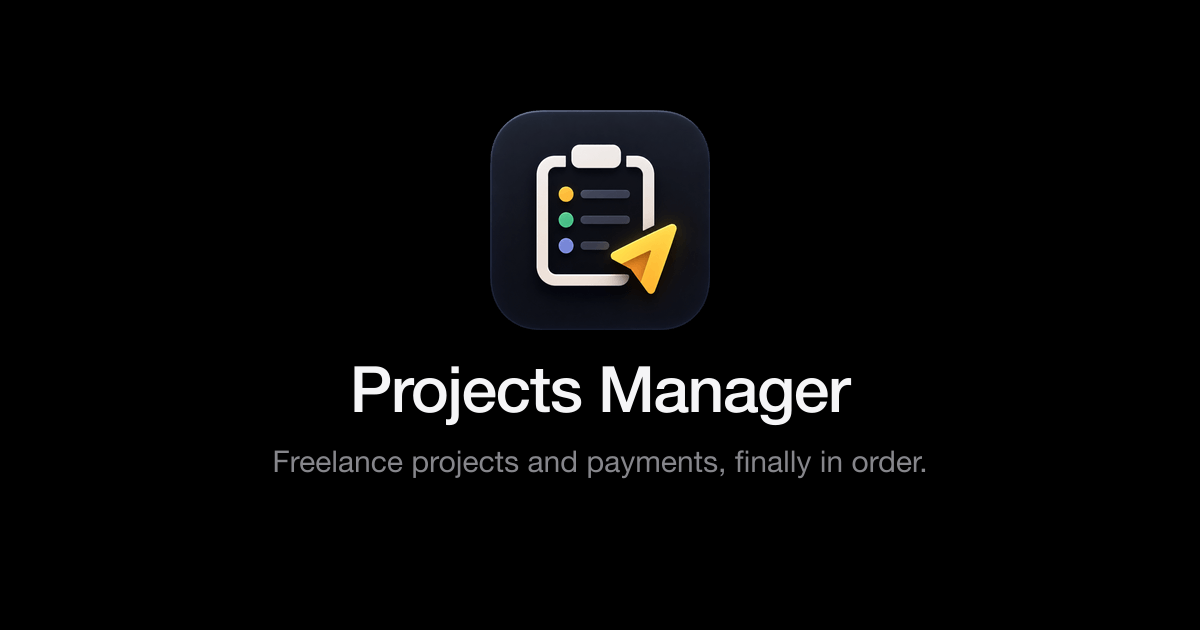
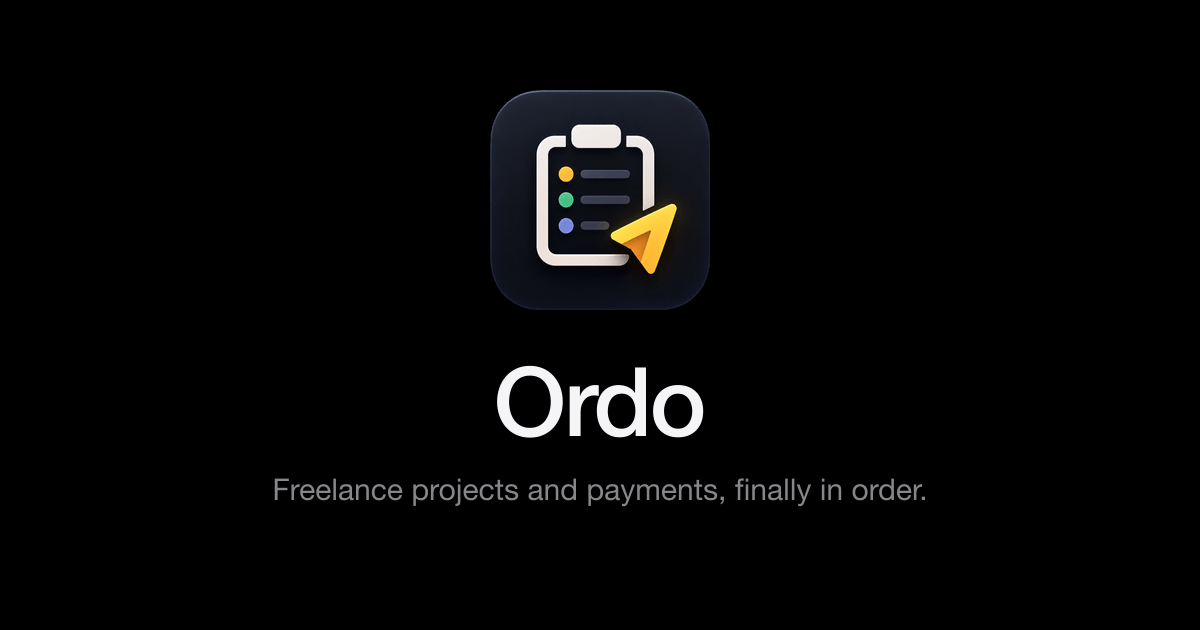
feat: rebrand to Ordo
- Product name in the top bar, landing page, sign-in, page titles,
  web app manifest, iOS home-screen title and Open Graph metadata
- Regenerate the social preview card with an Ordo wordmark
- Rename the npm package; drop stale Framer Motion mention from README

Changed region(s): [[0.4008, 0.1206, 0.6167, 0.5429], [0.2158, 0.7238, 0.7708, 0.8143], [0.2775, 0.573, 0.7092, 0.6937]]

diff --git a/app/page.tsx b/app/page.tsx
@@ -37,7 +37,7 @@ export default function Landing() {
       <header className="glass sticky top-0 z-40 border-b" style={{ borderColor: "var(--hairline)" }}>
         <div className="mx-auto flex h-12 max-w-[1080px] items-center justify-between px-4 sm:px-6">
           <span className="flex items-center gap-2 text-[15px] font-semibold">
-            <Logo size={26} /> Projects
+            <Logo size={26} /> Ordo
           </span>
           <Link href="/login" className="link pressable text-sm">
             Sign in
@@ -48,7 +48,7 @@ export default function Landing() {
       <main>
         <section className="mx-auto max-w-[1080px] px-5 pb-16 pt-20 text-center sm:pt-28">
           <Logo size={96} className="fade-in mx-auto mb-5 sm:size-[112px]" />
-          <p className="fade-in text-[17px] font-semibold text-secondary sm:text-[21px]">Projects Manager</p>
+          <p className="fade-in text-[17px] font-semibold text-secondary sm:text-[21px]">Ordo</p>
           <h1 className="fade-in fade-in-d1 mx-auto mt-2 max-w-3xl text-[44px] font-semibold leading-[1.05] sm:text-[72px]">
             Freelance work.
             <br />
@@ -119,7 +119,7 @@ export default function Landing() {
       </main>
 
       <footer className="border-t py-8 text-center text-xs text-tertiary" style={{ borderColor: "var(--hairline)" }}>
-        Projects Manager · Your data stays private.
+        Ordo · Your data stays private.
       </footer>
     </div>
   );

diff --git a/app/layout.tsx b/app/layout.tsx
@@ -6,12 +6,12 @@ const description = "Track freelance projects, referral sources and irregular pa
 export const metadata: Metadata = {
   // absolute base so the social preview image resolves when the link is shared
   metadataBase: new URL("https://theog-projects-manager.vercel.app"),
-  title: { default: "Projects Manager", template: "%s · Projects Manager" },
+  title: { default: "Ordo", template: "%s · Ordo" },
   description,
-  applicationName: "Projects Manager",
-  appleWebApp: { capable: true, title: "Projects", statusBarStyle: "black" },
-  openGraph: { type: "website", siteName: "Projects Manager", title: "Projects Manager", description },
-  twitter: { card: "summary_large_image", title: "Projects Manager", description },
+  applicationName: "Ordo",
+  appleWebApp: { capable: true, title: "Ordo", statusBarStyle: "black" },
+  openGraph: { type: "website", siteName: "Ordo", title: "Ordo", description },
+  twitter: { card: "summary_large_image", title: "Ordo", description },
 };
 
 export const viewport: Viewport = {

diff --git a/app/manifest.ts b/app/manifest.ts
@@ -3,8 +3,8 @@ import type { MetadataRoute } from "next";
 // "Add to Home Screen" installs the dashboard as a standalone app with the brand icon.
 export default function manifest(): MetadataRoute.Manifest {
   return {
-    name: "Projects Manager",
-    short_name: "Projects",
+    name: "Ordo",
+    short_name: "Ordo",
     description: "Track freelance projects, referral sources and irregular payments.",
     start_url: "/dashboard",
     display: "standalone",

diff --git a/app/login/page.tsx b/app/login/page.tsx
@@ -25,7 +25,7 @@ export default function LoginPage() {
           <div className="mb-8 text-center">
             <Logo size={72} className="mx-auto" />
             <h1 className="mt-4 text-[32px] font-semibold">Sign in</h1>
-            <p className="mt-1 text-[15px] text-secondary">to your projects dashboard</p>
+            <p className="mt-1 text-[15px] text-secondary">to Ordo</p>
           </div>
 
           <form action={action} className="space-y-3">

diff --git a/components/Nav.tsx b/components/Nav.tsx
@@ -38,7 +38,7 @@ export function TopNav({ email }: { email: string }) {
       <div className="mx-auto flex h-12 max-w-[1080px] items-center justify-between px-4 sm:px-6">
         <Link href="/dashboard" className="pressable flex items-center gap-2 text-[15px] font-semibold">
           <Logo size={26} />
-          Projects
+          Ordo
         </Link>
 
         <nav className="hidden items-center gap-1 md:flex" aria-label="Main">

diff --git a/README.md b/README.md
@@ -1,9 +1,9 @@
-# Projects Manager
+# Ordo
 
 A calm, fast dashboard for freelancers to track **projects**, the **people who bring
 them in**, and **irregular payments** — replacing the spreadsheet.
 
-Built with **Next.js (App Router) + React + Supabase**, animated with **Framer Motion**,
+Built with **Next.js (App Router) + React + Supabase**, with lightweight CSS animations,
 styled with **Tailwind CSS** and Apple's system font (San Francisco).
 
 ## Features
@@ -24,7 +24,7 @@ styled with **Tailwind CSS** and Apple's system font (San Francisco).
 | Layer     | Choice                                   |
 | --------- | ---------------------------------------- |
 | Framework | Next.js 16 (App Router, Server Actions)  |
-| UI        | React, Tailwind CSS, Framer Motion, lucide-react |
+| UI        | React, Tailwind CSS, lucide-react |
 | Backend   | Supabase (Postgres + Auth + RLS)         |
 | Auth      | Supabase email/password via `@supabase/ssr` |
 
